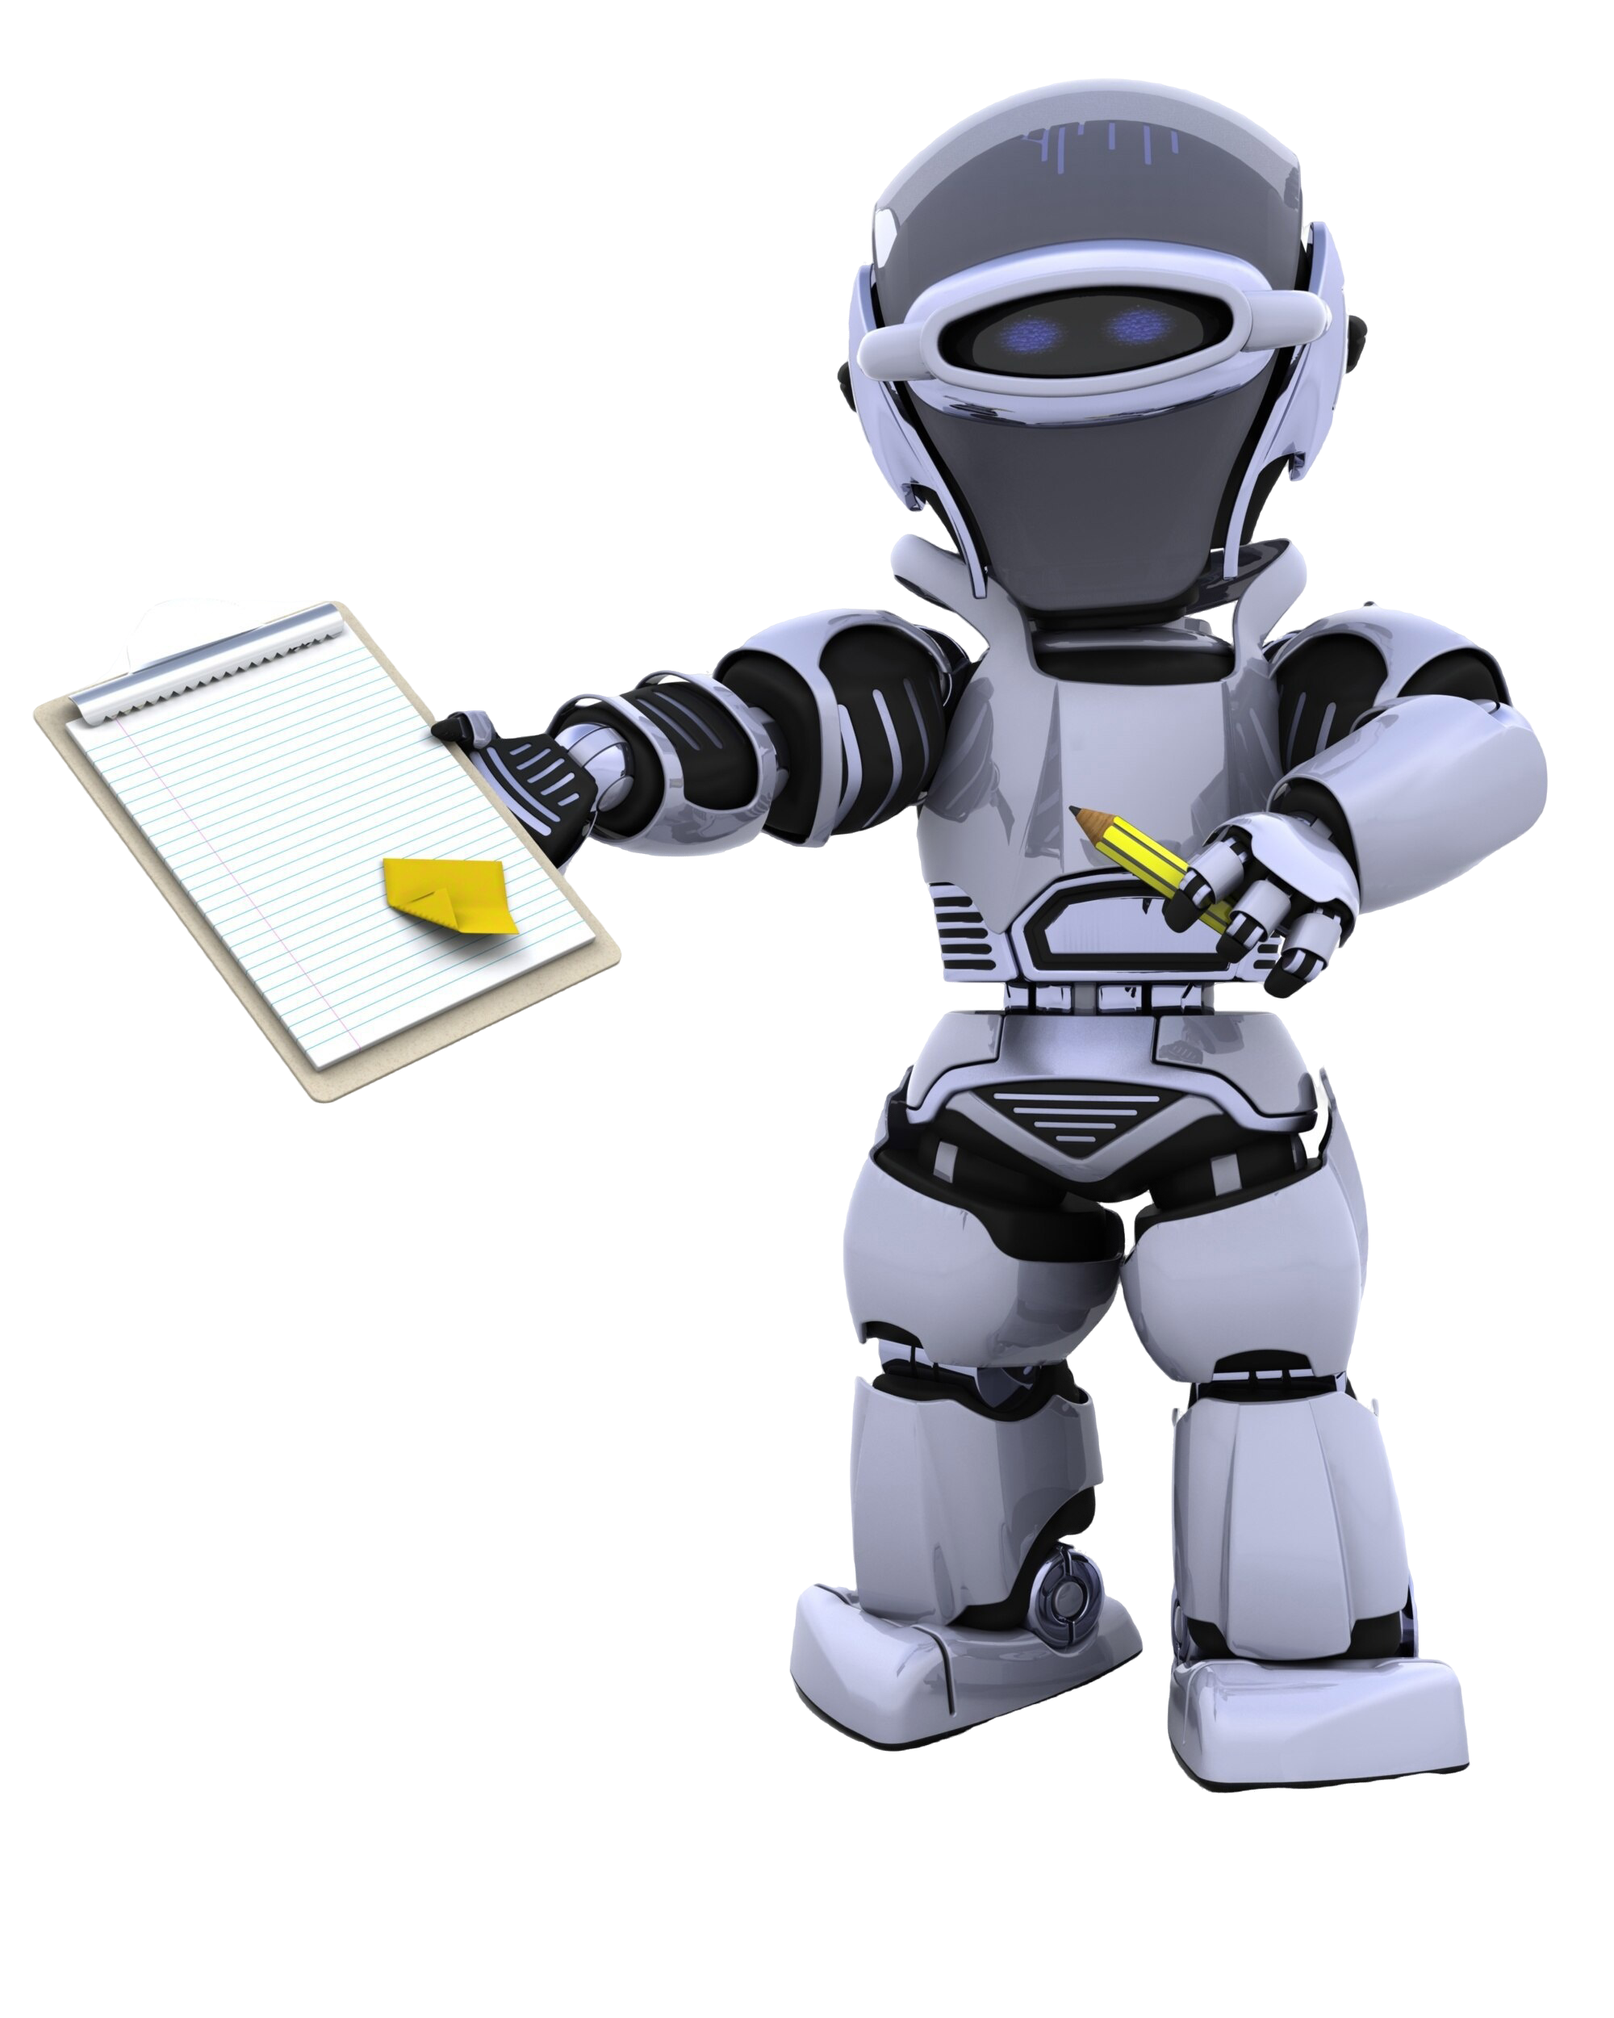
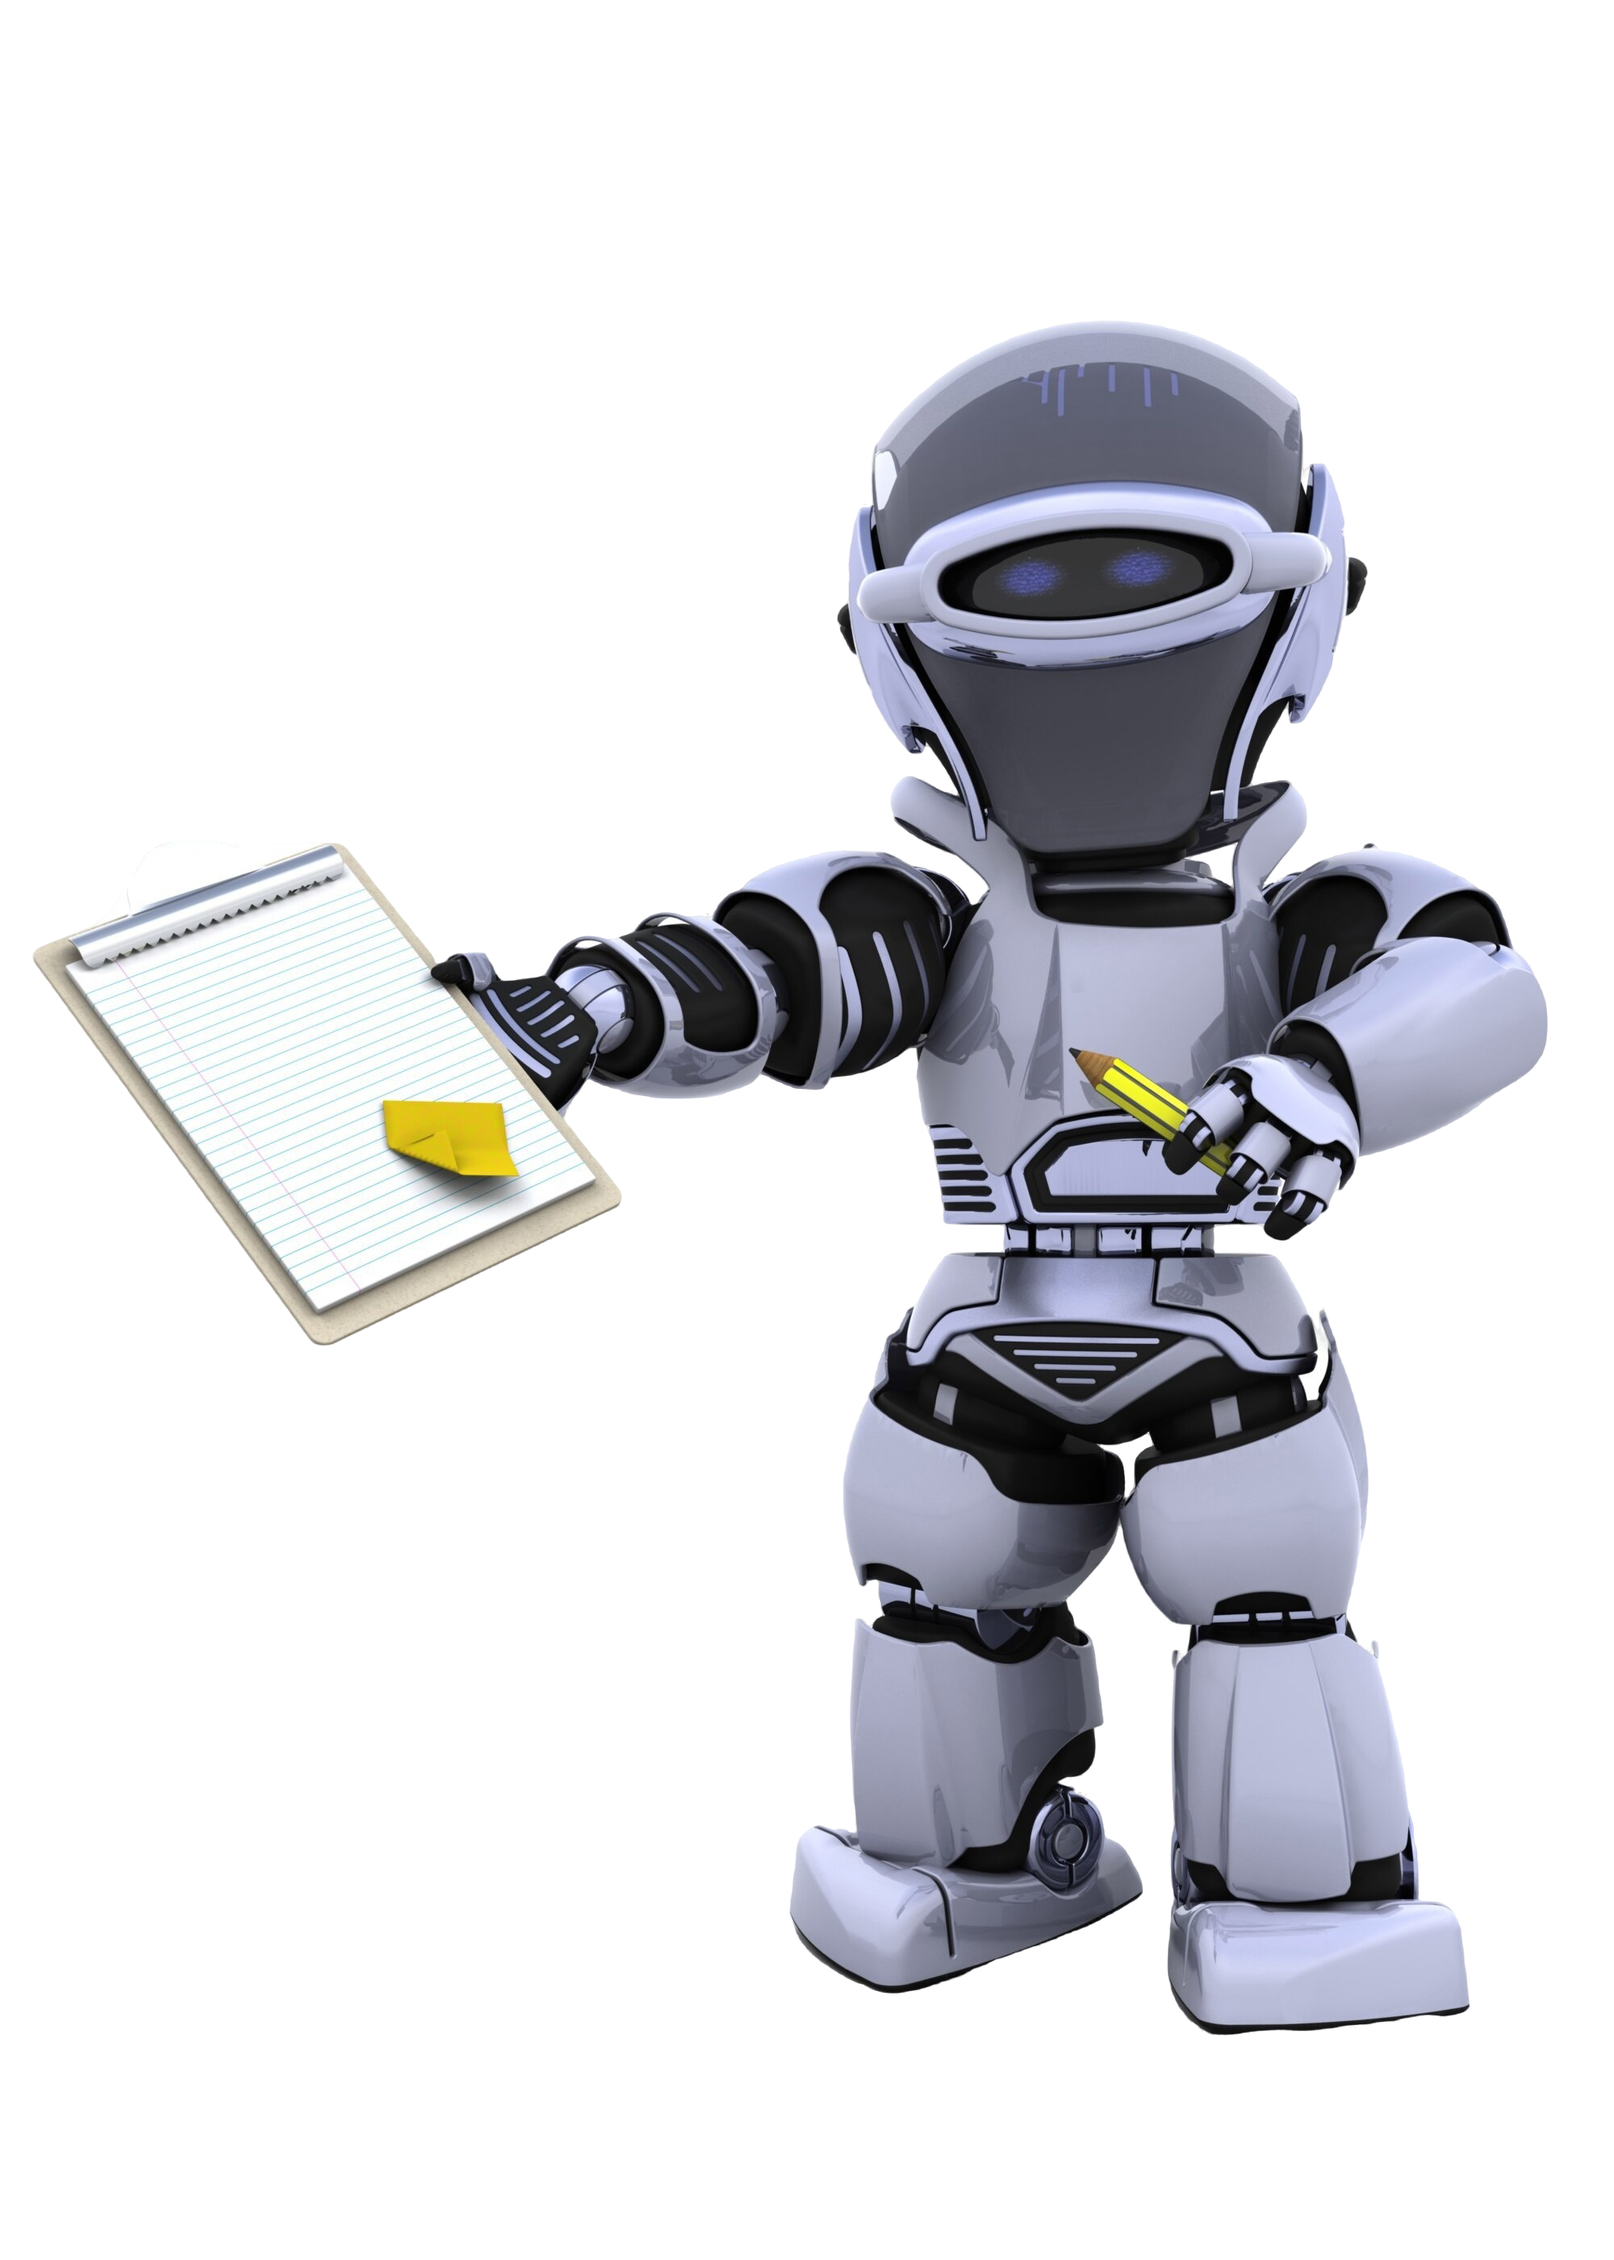
fix: robots container

Changed region(s): [[0.0, 0.0312, 0.961, 0.9048]]

diff --git a/src/app/[locale]/(auth)/sign-in/[[...sign-in]]/page.tsx b/src/app/[locale]/(auth)/sign-in/[[...sign-in]]/page.tsx
@@ -19,7 +19,7 @@ export async function generateMetadata({ params: { locale } }: PropsWihLocale) {
 export default function SignInPage() {
   const t = useTranslations('sign-in');
   return (
-    <div className="flex min-h-full flex-1">
+    <div className="flex min-h-screen flex-1">
       <div className="flex flex-1 flex-col justify-center px-4 py-12 sm:px-6 lg:flex-none lg:px-20 xl:px-24">
         <div className="mx-auto w-full max-w-sm lg:w-96">
           <div>
@@ -45,13 +45,13 @@ export default function SignInPage() {
           </div>
         </div>
       </div>
-      <div className="relative hidden w-0 flex-1 lg:block lg:justify-end">
+      <div className="relative hidden lg:block lg:w-1/2">
         <Image
-          className="absolute inset-0 size-full object-cover h-full ml-8  dark:opacity-10 opacity-20"
+          className="absolute inset-0 w-full h-full object-cover dark:opacity-10 opacity-20"
           src="/assets/robot-3.png"
+          fill
+          sizes="(max-width: 768px) 0px, 50vw"
           alt=""
-          width={800}
-          height={600}
         />
       </div>
     </div>

diff --git a/src/app/[locale]/(auth)/sign-up/[[...sign-up]]/page.tsx b/src/app/[locale]/(auth)/sign-up/[[...sign-up]]/page.tsx
@@ -20,7 +20,7 @@ export default function SignUpPage() {
   const t = useTranslations('sign-up');
   return (
     <>
-      <div className="flex min-h-full flex-1">
+      <div className="flex min-h-screen flex-1">
         <div className="flex flex-1 flex-col justify-center px-4 py-12 sm:px-6 lg:flex-none lg:px-20 xl:px-24">
           <div className="mx-auto w-full max-w-sm lg:w-96">
             <div>
@@ -46,13 +46,13 @@ export default function SignUpPage() {
             </div>
           </div>
         </div>
-        <div className="relative hidden w-0 flex-1 lg:block lg:justify-end">
+        <div className="relative hidden lg:block lg:w-1/2">
           <Image
-            className="absolute inset-0 size-full object-cover h-full ml-8 dark:opacity-10 opacity-20"
+            className="absolute inset-0 w-full h-full object-cover dark:opacity-10 opacity-20"
             src="/assets/robot-4.png"
+            fill
+            sizes="(max-width: 768px) 0px, 50vw"
             alt=""
-            width={800}
-            height={600}
           />
         </div>
       </div>
